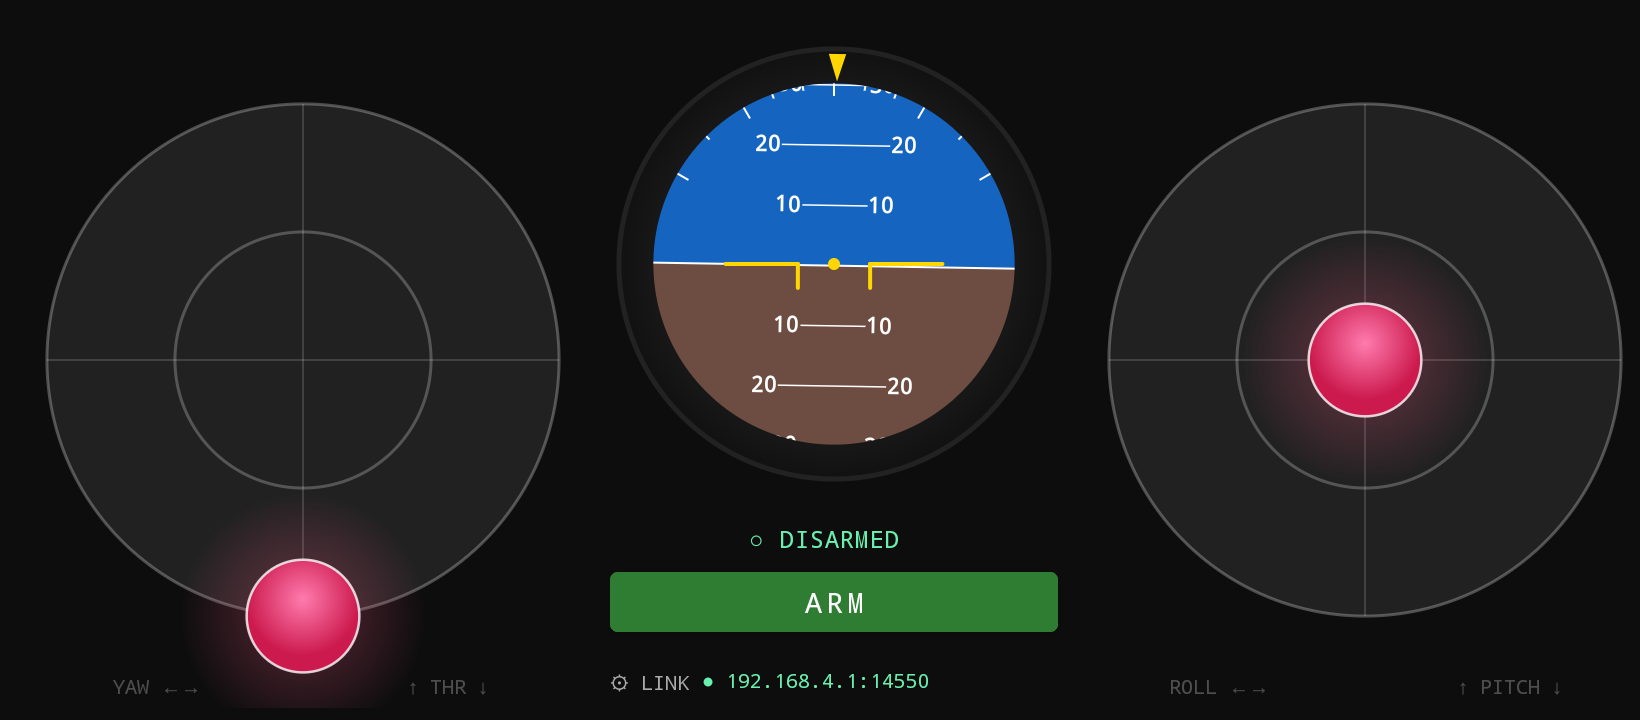
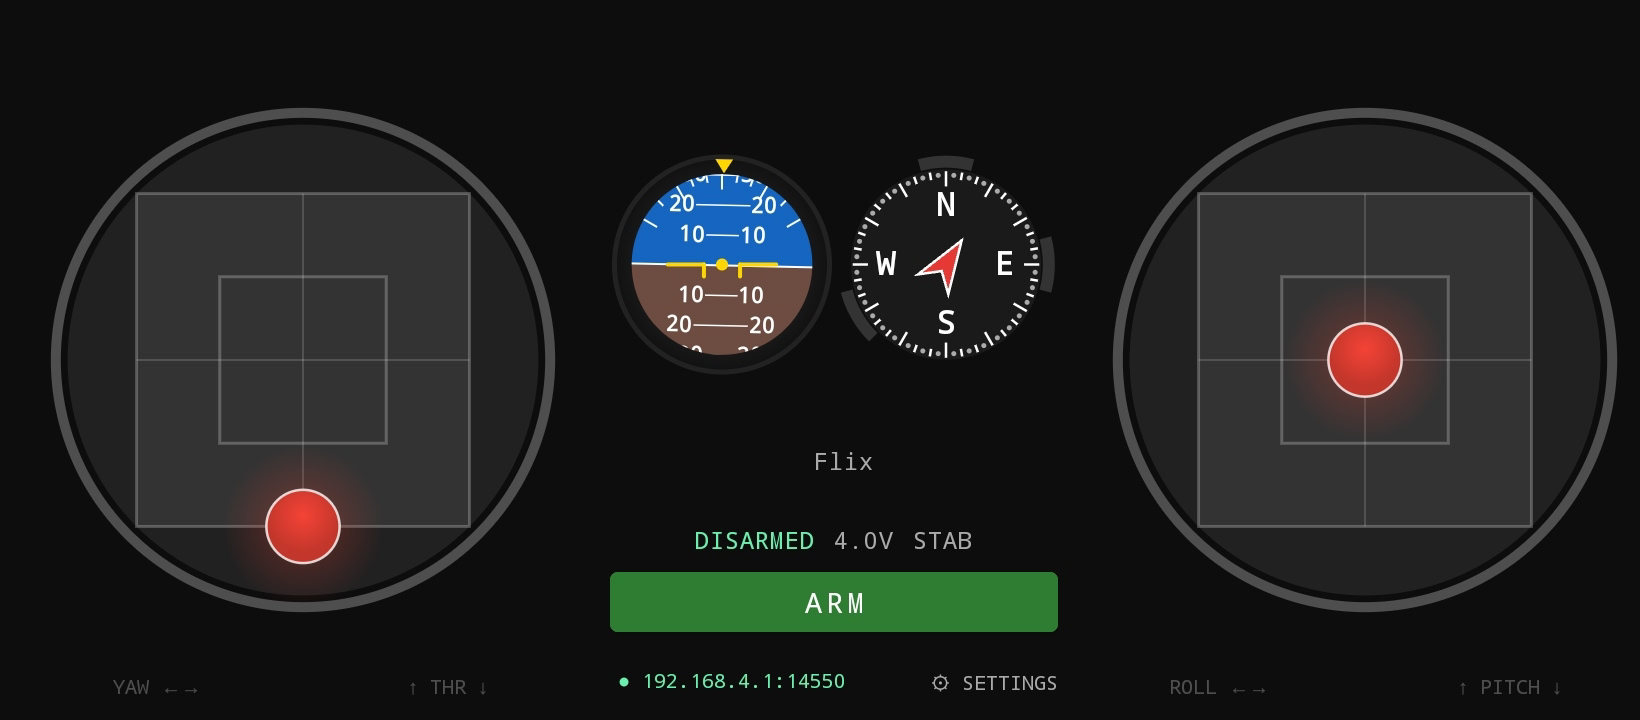
Update README

diff --git a/README.md b/README.md
@@ -1,56 +1,26 @@
 # Mavlink Joystick
 
-A clean, dark-themed kotlin app to control Flix/ArduPilot/PX4 drones over MAVLink (UDP).
+User-friendly joystick for controlling vehicles and robots via MAVLink protocol. Supports Flix/ArduPilot/PX4 drones out-of-the-box.
 
 ![](app_screen.png)
 
 ## Features
 
-| Feature | Detail |
-|---|---|
-| **Left stick** | Throttle (Y, no spring) + Yaw (X, spring) — Mode 2 |
-| **Right stick** | Pitch (Y, spring) + Roll (X, spring) |
-| **Artificial Horizon** | Live roll/pitch from ATTITUDE MAVLink message |
-| **Arm status** | Parsed from HEARTBEAT, colour-coded |
-| **ARM / DISARM** | One tap; long-press = instant disarm |
-| **Connection dialog** | Tap ⚙ LINK to set target IP + UDP port |
-| **Link indicator** | Green = heartbeat received < 3 s ago |
-
+- **MAVLink v2 over UDP** - control any vehicle or robot with MANUAL_CONTROL message support from your Android smartphone via WiFi
+- **Customizable sticks** - size, appearance and even curve for each axis can be changed
+- **Artificial horizon and compass** - intuitive orientation visualization from ATTITUDE_QUATERNION message
+- **Status bar** - armed/voltage/mode display
+- **Mavlink console** - for low-level autopilot setup
 
 ## Build
 
-- clone this project
-- install Android Studio Panda 4 (if not installed)
-- open the project Android Studio → Build → Run
+- Clone this project
+- Install Android Studio Panda 4 (if not installed)
+- Open the project in Android Studio → Build → Run
 
-## Connecting
+## Connect to drone
 
-### SITL (Simulator)
-
-```bash
-# Start ArduCopter SITL
-sim_vehicle.py -v ArduCopter --out=udp:192.168.x.x:14550
-```
-Open the app → ⚙ LINK → set IP to your PC's IP, port 14550.
-
-### Real drone via Wi-Fi telemetry (ESP32 MAVLink bridge)
-
-Default IP: **192.168.4.1**, port **14550**.  
-The AP SSID is usually `ArduPilot` or `Telemetry`.
-
-### Mission Planner / QGroundControl forwarder
-
-Enable UDP output in your GCS and point it at your phone's IP.
-
-## MAVLink Messages
-
-| Direction | Message | Purpose |
-|---|---|---|
-| Send | `MANUAL_CONTROL` (69) | Control at 50 Hz |
-| Send | `HEARTBEAT` (0) | Keep link alive |
-| Send | `COMMAND_LONG` (76) | ARM/DISARM |
-| Receive | `HEARTBEAT` (0) | Armed flag, link health |
-| Receive | `ATTITUDE_QUATERNION` (31) | Roll/pitch for horizon |
+App listens 14550 udp port by default and connects to first drone, which sends MAVLink heartbeat. You can change listen port in connection settings.
 
 ## Safety Notes
 
@@ -58,16 +28,3 @@ Enable UDP output in your GCS and point it at your phone's IP.
 - Throttle holds position when released (real transmitter behaviour).
 - All other axes spring back to centre on release.
 - The app does **not** enforce geo-fencing or failsafes — those must be configured on the flight controller.
-
-## Project Structure
-
-```
-app/src/main/java/com/goldarte/mavlinkjoystick/
-├── MainActivity.kt                  # UI wiring, lifecycle
-├── ConnectionDialogFragment.kt      # IP/port settings dialog
-├── mavlink/
-│   └── MavlinkManager.kt           # UDP socket, MAVLink v2 handling
-└── views/
-    ├── JoystickView.kt             # Custom circular joystick (throttle mode)
-    └── ArtificialHorizonView.kt    # AHRS display (sky/ground + pitch ladder)
-```